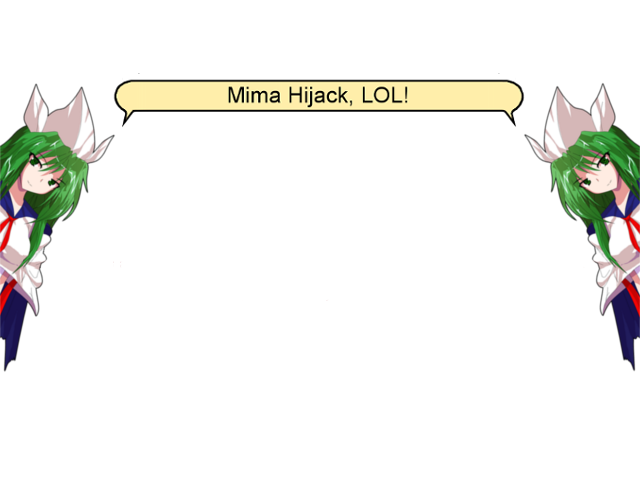
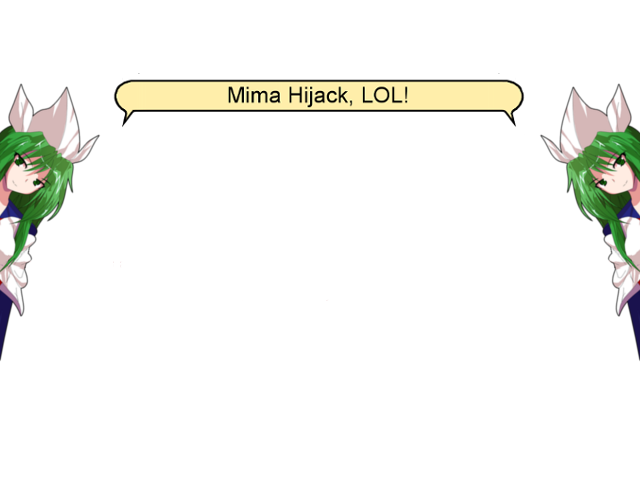
More sig changes

Changed region(s): [[0.8125, 0.1562, 1.0, 0.7812], [0.0, 0.1562, 0.1875, 0.7812]]

diff --git a/mima/files.js b/mima/files.js
@@ -284,7 +284,7 @@
 	"th13/face/pl01/face_pl01sp.png": 1077019054,
 	"th13/face/pl01/face_pl01sw.png": 4078703936,
 	"th13/face/pl01/title_pl01.png": 785431004,
-	"th13/loading/sig.png": 3419273240,
+	"th13/loading/sig.png": 579617747,
 	"th13/player/pl01/pl01.png": 2423680489,
 	"th13/player/pl01/pl01b.png": 1481901219,
 	"th13/player/pl01/pl01b2.png": 267757438,
